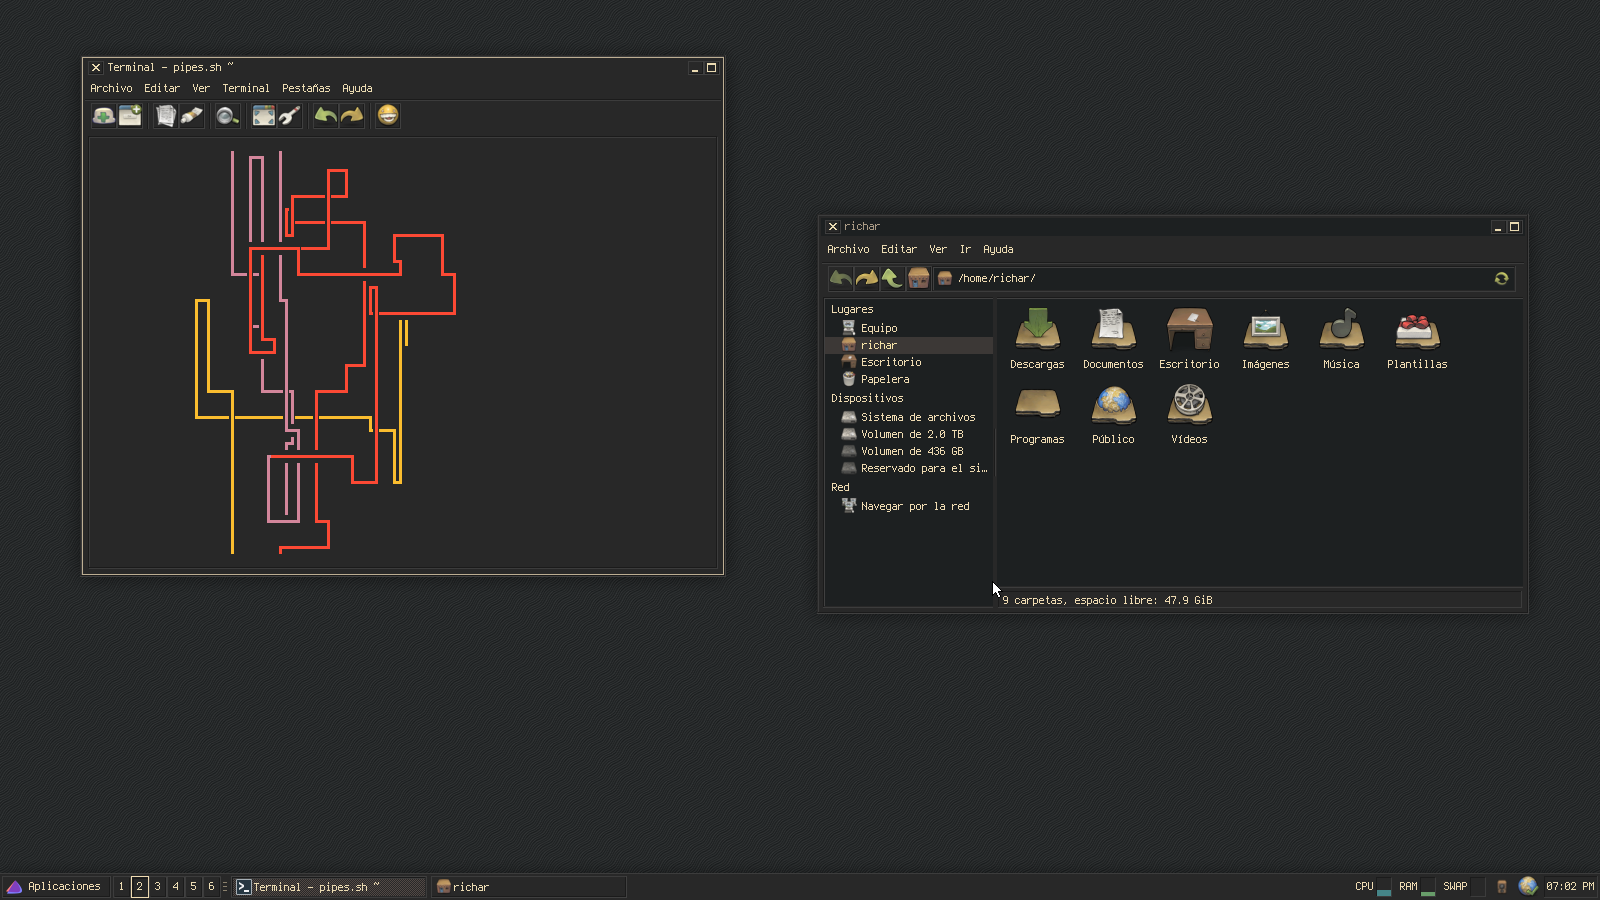
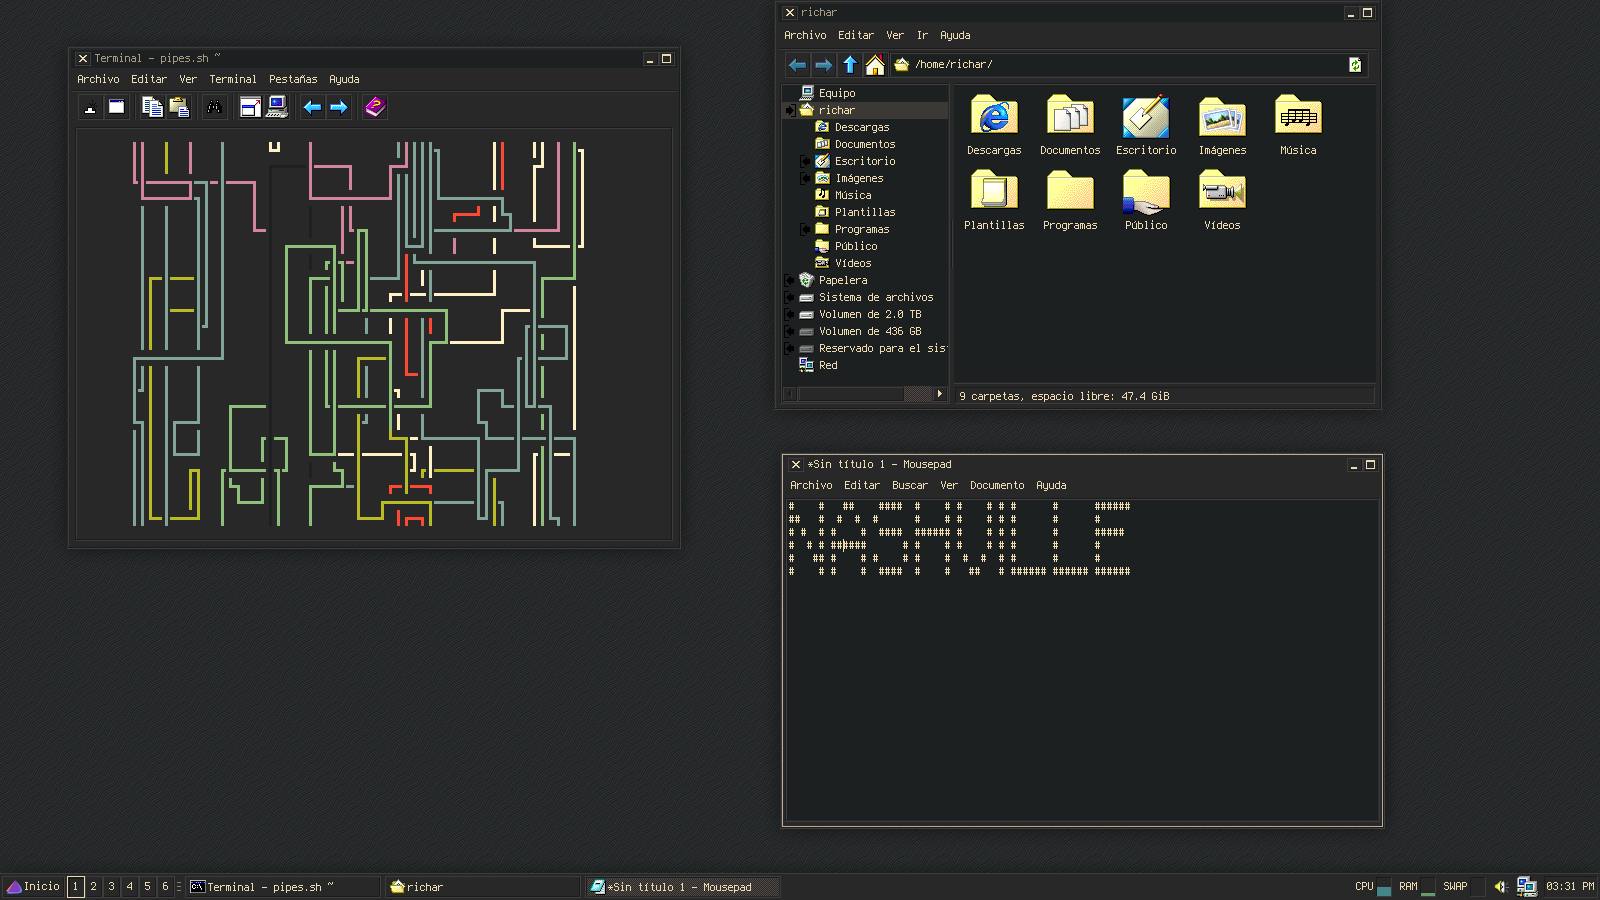
Updated README.md and screenshots

diff --git a/Nashville Gruvbox/gtk-3.0/gtk-buttons.css b/Nashville Gruvbox/gtk-3.0/gtk-buttons.css
@@ -36,8 +36,7 @@ button {
  /* border-top-color: @border_dark;
     border-right-color: @border_bright;
     border-left-color: @border_dark;
-    border-bottom-color: @border_bright;
-     */}
+    border-bottom-color: @border_bright; */}
 
 /* Sidebar buttons */
 button.sidebar-button {
@@ -146,8 +145,7 @@ toolbutton .toggle,
     border-top: 1px solid @border_dark;
     border-bottom: 1px solid @border_bright;
     border-right: 1px solid @border_bright;
-    box-shadow: inset 1px 1px @border_shade; 
-    */}
+    box-shadow: inset 1px 1px @border_shade; */}
   toolbutton .toggle:active,
   toolbutton .toggle:checked,
   .path-bar button:active,

diff --git a/Nashville Gruvbox/gtk-3.0/apps/xfce.css b/Nashville Gruvbox/gtk-3.0/apps/xfce.css
@@ -11,7 +11,7 @@
 
 /* Xfdesktop */
 XfdesktopIconView.view {
-/*  background: @xfd_icon_backdrop; */
+/* background: @xfd_icon_backdrop; */
   background: transparent;
   color: @selected_bg_color;
   border-radius: 0px; }
@@ -113,10 +113,10 @@ wnck-pager {
 
 /* Plugin buttons  */
 .xfce4-panel .toggle {
-/*  border: none;
+/* border: none;
   box-shadow: none;
   margin: 0px;
-  background-color: transparent; }  */
+  background-color: transparent; */
   margin-top: 2px;
   margin-bottom: 2px;
 }

diff --git a/README.md b/README.md
@@ -32,9 +32,10 @@ If you are looking for  Windows-like icons i recommend to use either the [defaul
 	<figcaption>
 		<b>Extra information: </b>
 		<ul>
-			<li><b>Icons:</b> <a href="https://www.gnome-look.org/p/1012512/">Buuf</a>.</li>
-			<li><b>Cursor:</b> <a href="https://github.com/mdomlop/retrosmart-x11-cursors">Retrosmart</a>.</li>
+			<li><b>Icons:</b> <a href="https://github.com/nestoris/Win98SE">SE98</a>.</li>
+			<li><b>Cursor:</b> <a href="https://github.com/grassmunk/Chicago95/tree/master/Cursors/Chicago95_Cursor_Black">Chicago95 Black</a>.</li>
 			<li><b>Font:</b> <a href="https://terminus-font.sourceforge.net/">Terminus</a>.</li>
+			<li><b>Terminal Font:</b> <a href="https://laemeur.sdf.org/fonts/">Less Perfect DOS VGA</a>, you also can get some good vintage fonts <a href="https://int10h.org/oldschool-pc-fonts/">from here</a>.</li>
 			<li><b>Wallpaper:</b> Tile generated with <a href="https://bg.siteorigin.com/">Background Generator</a>.</li>
 			<li><b>Compositor:</b> <a href="https://github.com/yshui/picom">picom</a>.</li>
 		</ul>
